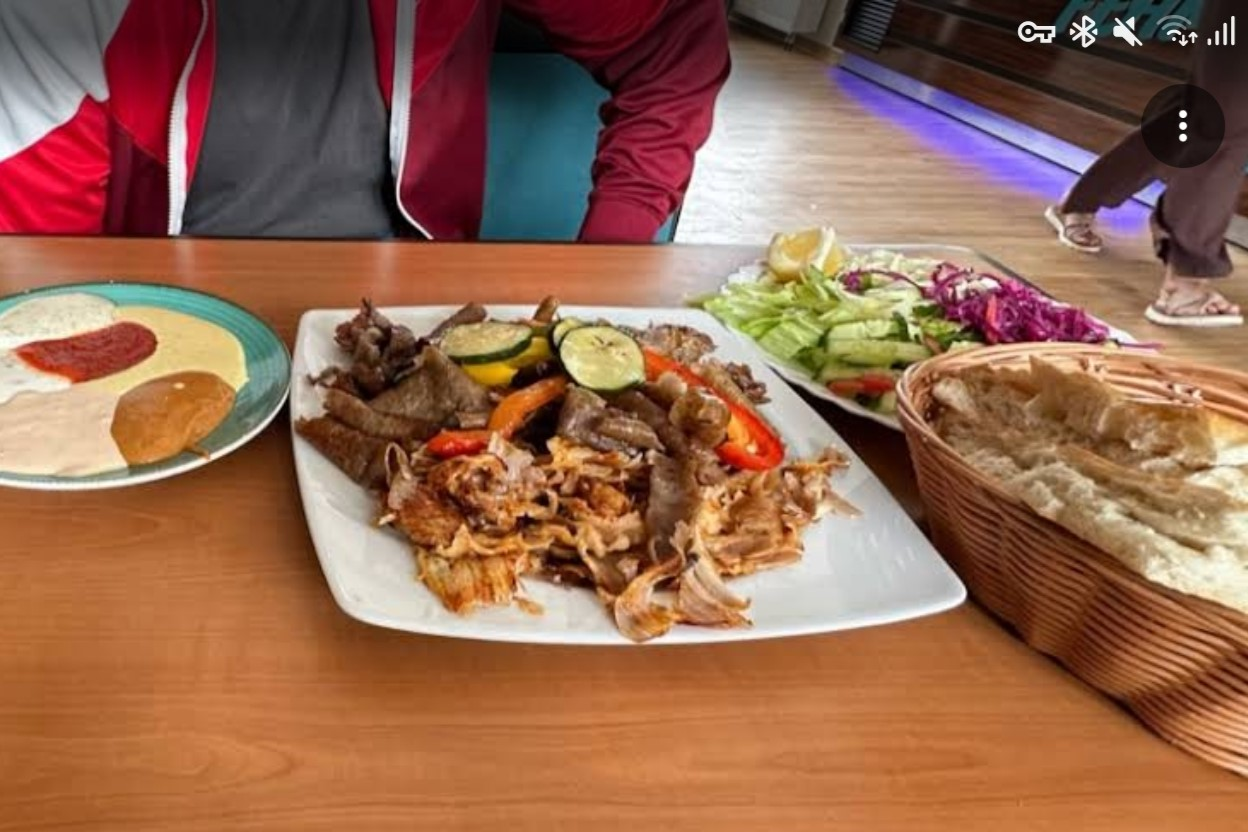
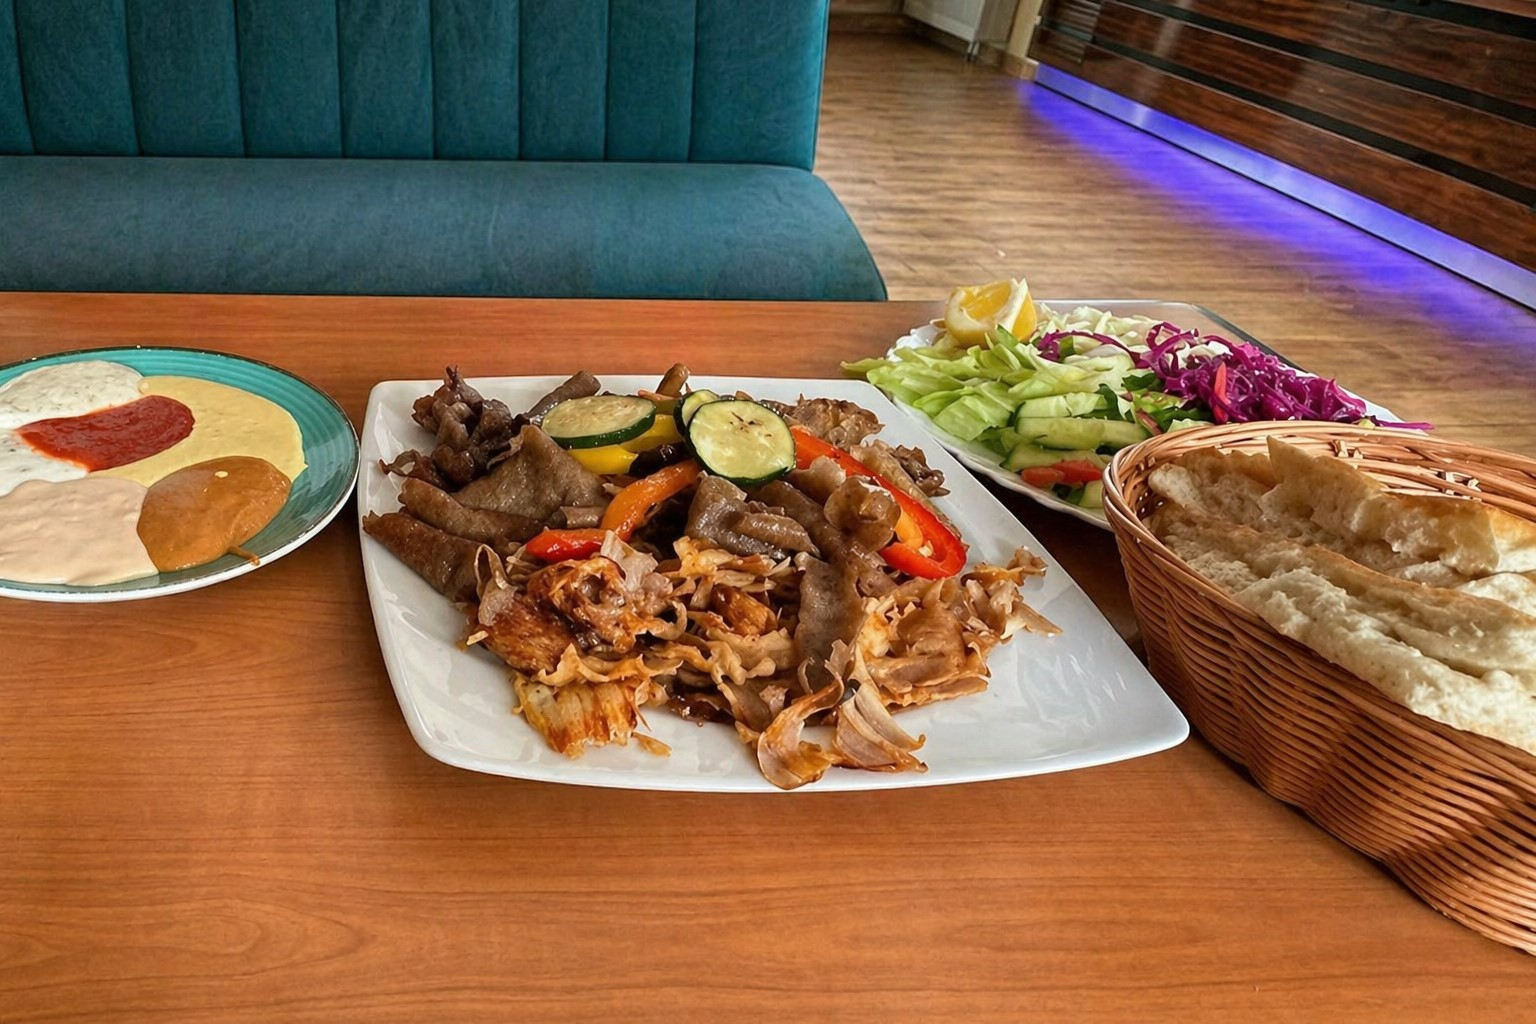
update image gericht2

diff --git a/index.html b/index.html
@@ -306,17 +306,13 @@
       position: relative;
     }
 
-    .spez-placeholder {
+    .spezialitaeten-img {
       width: 100%;
       aspect-ratio: 4/3;
       border-radius: 12px;
       background: linear-gradient(135deg, var(--bg-card) 0%, #1a3840 100%);
       border: 1px solid rgba(0,154,173,0.2);
-      display: flex;
-      flex-direction: column;
-      align-items: center;
-      justify-content: center;
-      gap: 16px;
+    
       position: relative;
       overflow: hidden;
     }
@@ -918,10 +914,8 @@
   <section id="spezialitaeten">
     <div class="spez-layout">
       <div class="spez-image-wrap reveal">
-        <div class="spez-placeholder">
-          <div class="placeholder-icon"></div>
-          <div class="placeholder-text">Spezialitäten Bild</div>
-        </div>
+        <img src="./images/Gericht2.jpg" alt="Unsere Spezialität" class="spezialitaeten-img" loading="lazy" />
+  
         <div class="spez-corner"></div>
         <div class="spez-corner-bl"></div>
       </div>
